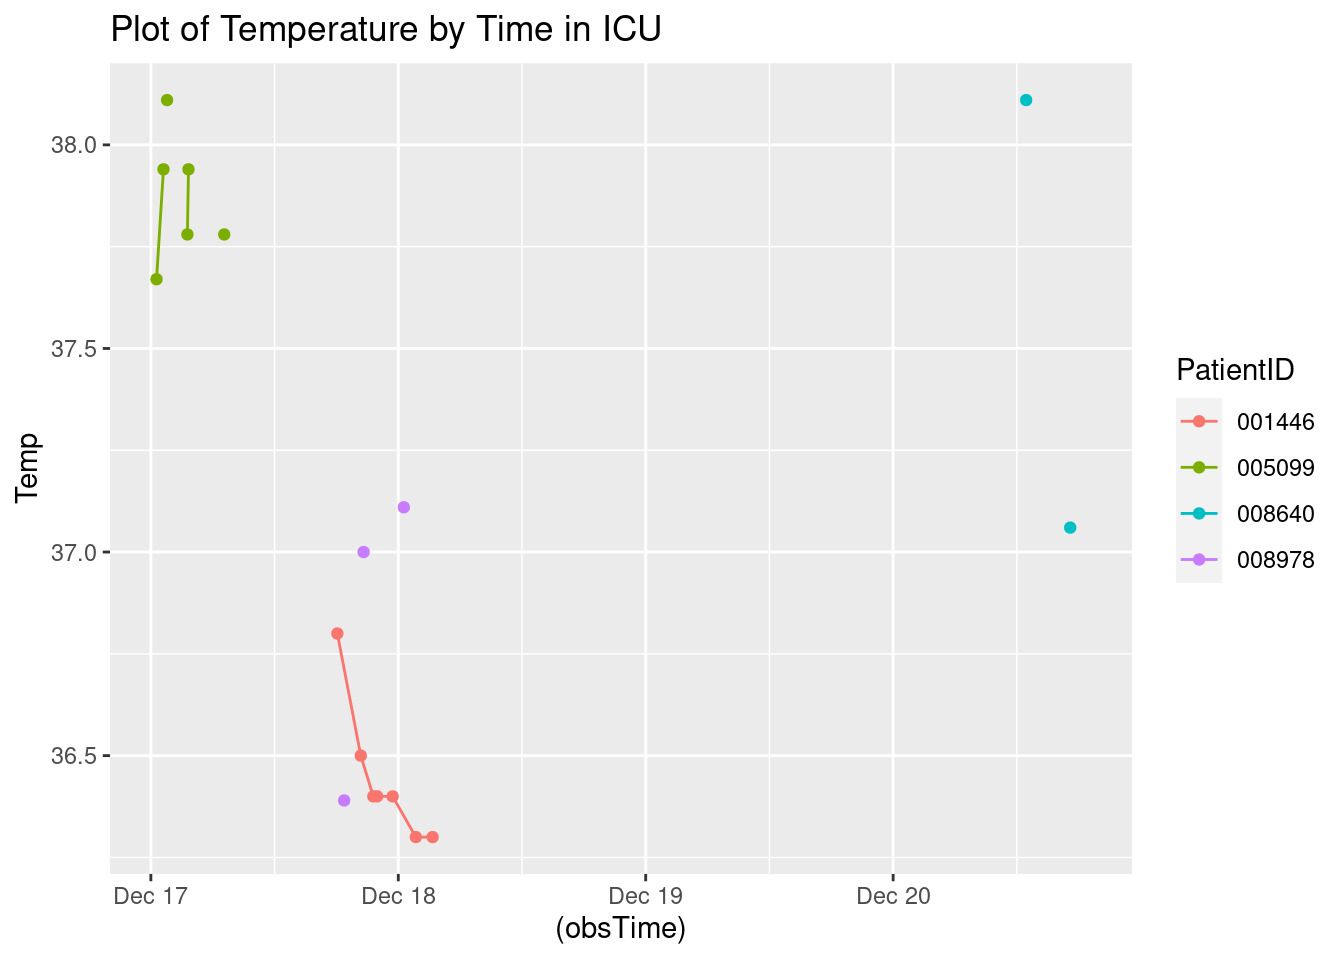
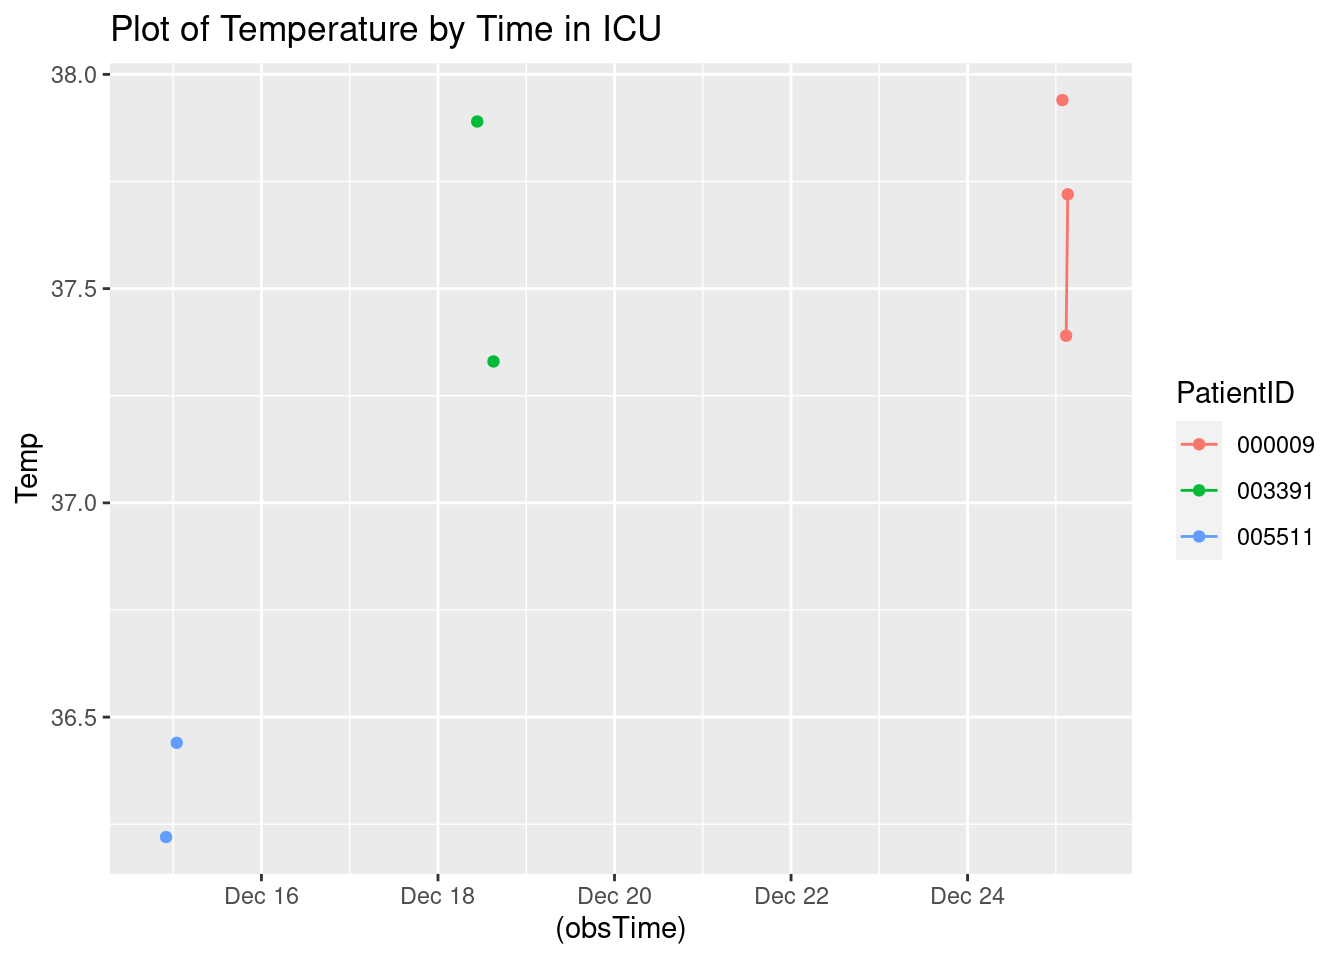
Updated report

diff --git a/A7.html b/A7.html
@@ -114,7 +114,7 @@ pre > code.sourceCode > span > a:first-child::before { text-decoration: underlin
 </div>
 <div class="sourceCode cell-code" id="cb4"><pre class="sourceCode r code-with-copy"><code class="sourceCode r"><span id="cb4-1"><a href="#cb4-1" aria-hidden="true" tabindex="-1"></a><span class="fu">toc</span>()</span></code><button title="Copy to Clipboard" class="code-copy-button"><i class="bi"></i></button></pre></div>
 <div class="cell-output cell-output-stdout">
-<pre><code>3.642 sec elapsed</code></pre>
+<pre><code>6.423 sec elapsed</code></pre>
 </div>
 <div class="sourceCode cell-code" id="cb6"><pre class="sourceCode r code-with-copy"><code class="sourceCode r"><span id="cb6-1"><a href="#cb6-1" aria-hidden="true" tabindex="-1"></a><span class="fu">tic</span>()</span>
 <span id="cb6-2"><a href="#cb6-2" aria-hidden="true" tabindex="-1"></a>test1<span class="ot">=</span><span class="fu">makeSepsisDataset</span>(<span class="at">n=</span><span class="dv">50</span>,<span class="at">read_fn =</span> <span class="st">"read_delim"</span>)</span>
@@ -124,7 +124,7 @@ pre > code.sourceCode > span > a:first-child::before { text-decoration: underlin
 </div>
 <div class="sourceCode cell-code" id="cb8"><pre class="sourceCode r code-with-copy"><code class="sourceCode r"><span id="cb8-1"><a href="#cb8-1" aria-hidden="true" tabindex="-1"></a><span class="fu">toc</span>()</span></code><button title="Copy to Clipboard" class="code-copy-button"><i class="bi"></i></button></pre></div>
 <div class="cell-output cell-output-stdout">
-<pre><code>13.905 sec elapsed</code></pre>
+<pre><code>22.764 sec elapsed</code></pre>
 </div>
 <div class="sourceCode cell-code" id="cb10"><pre class="sourceCode r code-with-copy"><code class="sourceCode r"><span id="cb10-1"><a href="#cb10-1" aria-hidden="true" tabindex="-1"></a><span class="co"># n=100</span></span>
 <span id="cb10-2"><a href="#cb10-2" aria-hidden="true" tabindex="-1"></a><span class="fu">tic</span>()</span>
@@ -135,7 +135,7 @@ pre > code.sourceCode > span > a:first-child::before { text-decoration: underlin
 </div>
 <div class="sourceCode cell-code" id="cb12"><pre class="sourceCode r code-with-copy"><code class="sourceCode r"><span id="cb12-1"><a href="#cb12-1" aria-hidden="true" tabindex="-1"></a><span class="fu">toc</span>()</span></code><button title="Copy to Clipboard" class="code-copy-button"><i class="bi"></i></button></pre></div>
 <div class="cell-output cell-output-stdout">
-<pre><code>6.252 sec elapsed</code></pre>
+<pre><code>11.667 sec elapsed</code></pre>
 </div>
 <div class="sourceCode cell-code" id="cb14"><pre class="sourceCode r code-with-copy"><code class="sourceCode r"><span id="cb14-1"><a href="#cb14-1" aria-hidden="true" tabindex="-1"></a><span class="fu">tic</span>()</span>
 <span id="cb14-2"><a href="#cb14-2" aria-hidden="true" tabindex="-1"></a>test1<span class="ot">=</span><span class="fu">makeSepsisDataset</span>(<span class="at">n=</span><span class="dv">100</span>,<span class="at">read_fn =</span> <span class="st">"read_delim"</span>)</span>
@@ -145,7 +145,7 @@ pre > code.sourceCode > span > a:first-child::before { text-decoration: underlin
 </div>
 <div class="sourceCode cell-code" id="cb16"><pre class="sourceCode r code-with-copy"><code class="sourceCode r"><span id="cb16-1"><a href="#cb16-1" aria-hidden="true" tabindex="-1"></a><span class="fu">toc</span>()</span></code><button title="Copy to Clipboard" class="code-copy-button"><i class="bi"></i></button></pre></div>
 <div class="cell-output cell-output-stdout">
-<pre><code>22.806 sec elapsed</code></pre>
+<pre><code>44.887 sec elapsed</code></pre>
 </div>
 <div class="sourceCode cell-code" id="cb18"><pre class="sourceCode r code-with-copy"><code class="sourceCode r"><span id="cb18-1"><a href="#cb18-1" aria-hidden="true" tabindex="-1"></a><span class="co"># n=500</span></span>
 <span id="cb18-2"><a href="#cb18-2" aria-hidden="true" tabindex="-1"></a><span class="fu">tic</span>()</span>
@@ -156,7 +156,7 @@ pre > code.sourceCode > span > a:first-child::before { text-decoration: underlin
 </div>
 <div class="sourceCode cell-code" id="cb20"><pre class="sourceCode r code-with-copy"><code class="sourceCode r"><span id="cb20-1"><a href="#cb20-1" aria-hidden="true" tabindex="-1"></a><span class="fu">toc</span>()</span></code><button title="Copy to Clipboard" class="code-copy-button"><i class="bi"></i></button></pre></div>
 <div class="cell-output cell-output-stdout">
-<pre><code>31.309 sec elapsed</code></pre>
+<pre><code>58.349 sec elapsed</code></pre>
 </div>
 <div class="sourceCode cell-code" id="cb22"><pre class="sourceCode r code-with-copy"><code class="sourceCode r"><span id="cb22-1"><a href="#cb22-1" aria-hidden="true" tabindex="-1"></a><span class="fu">tic</span>()</span>
 <span id="cb22-2"><a href="#cb22-2" aria-hidden="true" tabindex="-1"></a>test1<span class="ot">=</span><span class="fu">makeSepsisDataset</span>(<span class="at">n=</span><span class="dv">500</span>,<span class="at">read_fn =</span> <span class="st">"read_delim"</span>)</span>
@@ -166,7 +166,7 @@ pre > code.sourceCode > span > a:first-child::before { text-decoration: underlin
 </div>
 <div class="sourceCode cell-code" id="cb24"><pre class="sourceCode r code-with-copy"><code class="sourceCode r"><span id="cb24-1"><a href="#cb24-1" aria-hidden="true" tabindex="-1"></a><span class="fu">toc</span>()</span></code><button title="Copy to Clipboard" class="code-copy-button"><i class="bi"></i></button></pre></div>
 <div class="cell-output cell-output-stdout">
-<pre><code>107.296 sec elapsed</code></pre>
+<pre><code>218.754 sec elapsed</code></pre>
 </div>
 </div>
 <p><strong>Task 3</strong></p>
@@ -192,7 +192,7 @@ pre > code.sourceCode > span > a:first-child::before { text-decoration: underlin
 <span id="cb28-4"><a href="#cb28-4" aria-hidden="true" tabindex="-1"></a></span>
 <span id="cb28-5"><a href="#cb28-5" aria-hidden="true" tabindex="-1"></a><span class="fu">Sys.time</span>()</span></code><button title="Copy to Clipboard" class="code-copy-button"><i class="bi"></i></button></pre></div>
 <div class="cell-output cell-output-stdout">
-<pre><code>[1] "2023-12-14 18:25:01 UTC"</code></pre>
+<pre><code>[1] "2023-12-14 19:20:25 UTC"</code></pre>
 </div>
 <div class="sourceCode cell-code" id="cb30"><pre class="sourceCode r code-with-copy"><code class="sourceCode r"><span id="cb30-1"><a href="#cb30-1" aria-hidden="true" tabindex="-1"></a>dfnew <span class="ot">&lt;-</span> df <span class="sc">%&gt;%</span></span>
 <span id="cb30-2"><a href="#cb30-2" aria-hidden="true" tabindex="-1"></a>  <span class="fu">subset</span>(SepsisLabel<span class="sc">==</span><span class="dv">1</span>)</span>
@@ -221,40 +221,31 @@ pre > code.sourceCode > span > a:first-child::before { text-decoration: underlin
 </thead>
 <tbody>
 <tr class="odd">
-<td style="text-align: left;">001446</td>
-<td style="text-align: right;">84</td>
-<td style="text-align: right;">126</td>
+<td style="text-align: left;">000009</td>
+<td style="text-align: right;">256</td>
+<td style="text-align: right;">NA</td>
 <td style="text-align: right;">NA</td>
 <td style="text-align: right;">NA</td>
 <td style="text-align: right;">1</td>
-<td style="text-align: left;">2023-12-18 06:09:19</td>
+<td style="text-align: left;">2023-12-25 08:08:42</td>
 </tr>
 <tr class="even">
-<td style="text-align: left;">005099</td>
-<td style="text-align: right;">63</td>
-<td style="text-align: right;">63</td>
-<td style="text-align: right;">37.78</td>
-<td style="text-align: right;">18</td>
-<td style="text-align: right;">1</td>
-<td style="text-align: left;">2023-12-17 07:06:57</td>
-</tr>
-<tr class="odd">
-<td style="text-align: left;">008640</td>
-<td style="text-align: right;">145</td>
-<td style="text-align: right;">81</td>
+<td style="text-align: left;">003391</td>
+<td style="text-align: right;">95</td>
+<td style="text-align: right;">83</td>
 <td style="text-align: right;">NA</td>
 <td style="text-align: right;">19</td>
 <td style="text-align: right;">1</td>
-<td style="text-align: left;">2023-12-20 18:41:16</td>
+<td style="text-align: left;">2023-12-18 17:00:28</td>
 </tr>
-<tr class="even">
-<td style="text-align: left;">008978</td>
-<td style="text-align: right;">80</td>
-<td style="text-align: right;">99</td>
+<tr class="odd">
+<td style="text-align: left;">005511</td>
+<td style="text-align: right;">10</td>
+<td style="text-align: right;">96</td>
 <td style="text-align: right;">NA</td>
-<td style="text-align: right;">21</td>
+<td style="text-align: right;">27</td>
 <td style="text-align: right;">1</td>
-<td style="text-align: left;">2023-12-18 02:13:59</td>
+<td style="text-align: left;">2023-12-15 02:32:16</td>
 </tr>
 </tbody>
 </table>
